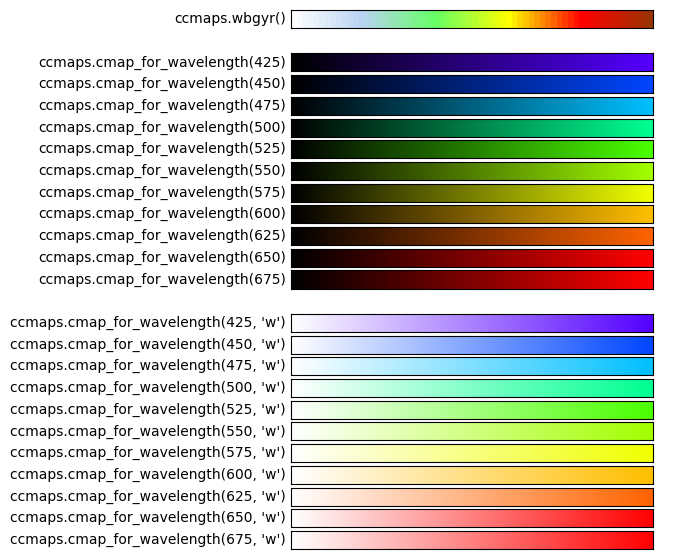
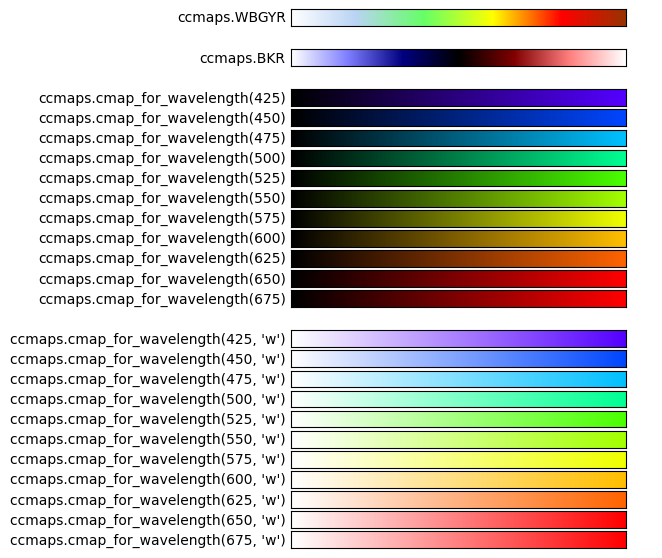
add bkr colormap

diff --git a/src/ccmaps/ccmaps.py b/src/ccmaps/ccmaps.py
@@ -78,7 +78,35 @@ def cmap_for_wavelength(
     )
 
 
+WBGYR = colors.LinearSegmentedColormap.from_list(
+    name="wbgyr",
+    colors=onp.loadtxt(f"{_DATA_PATH}/wbgyr.txt", delimiter=","),
+)
+"""The white-blue-green-yellow-red colormap."""
+
+
 def wbgyr() -> colors.ListedColormap:
     """Returns the white-blue-yellow-green-red colormap."""
-    cmap_colors = onp.loadtxt(f"{_DATA_PATH}/wbgyr.txt", delimiter=",")
-    return colors.ListedColormap(cmap_colors)
+    return WBGYR
+
+
+BKR = colors.LinearSegmentedColormap.from_list(
+    name="bkr",
+    colors=onp.asarray(
+        [
+            [1.0, 1.0, 1.0],
+            [0.5, 0.5, 1.0],
+            [0.0, 0.0, 0.5],
+            [0.0, 0.0, 0.0],
+            [0.5, 0.0, 0.0],
+            [1.0, 0.5, 0.5],
+            [1.0, 1.0, 1.0],
+        ]
+    ),
+)
+"""The white-blue-black-red-white colormap."""
+
+
+def bkr():
+    """Returns the white-blue-black-red-white colormap."""
+    return BKR

diff --git a/src/ccmaps/__init__.py b/src/ccmaps/__init__.py
@@ -3,6 +3,8 @@
 __version__ = "v0.0.1"
 __author__ = "Martin F. Schubert <mfschubert@gmail.com>"
 
+from .ccmaps import BKR as BKR
+from .ccmaps import WBGYR as WBGYR
 from .ccmaps import cmap_for_wavelength as cmap_for_wavelength
 from .ccmaps import rgb_for_wavelength as rgb_for_wavelength
 from .ccmaps import wbgyr as wbgyr

diff --git a/README.md b/README.md
@@ -3,7 +3,8 @@
 ![PyPI version](https://img.shields.io/pypi/v/ccmaps)
 
 This package includes custom matplotlib colormaps that I have found to be useful. These currently include:
- - `wbgyr` (white-blue-green-yellow-red), which is often used to plot electromagnetic field intensities ([1](https://projects.iq.harvard.edu/files/muri_metasurfaces/files/1190.full_.pdf), [2](https://github.com/flexcompute/metalens/blob/main/Metalens_Simulate_Single.ipynb)).
+ - `WBGYR` (white-blue-green-yellow-red), which is often used to plot electromagnetic field intensities ([1](https://projects.iq.harvard.edu/files/muri_metasurfaces/files/1190.full_.pdf), [2](https://github.com/flexcompute/metalens/blob/main/Metalens_Simulate_Single.ipynb)).
+ - `BKR` (white-blue-black-red-white), appropriate for electromagnetic field amplitudes.
  - `cmap_for_wavelength`, which generates a colormap that interpolates between the chosen background color and the color for the specified wavelength (in nanometers).
 
 ## Install
